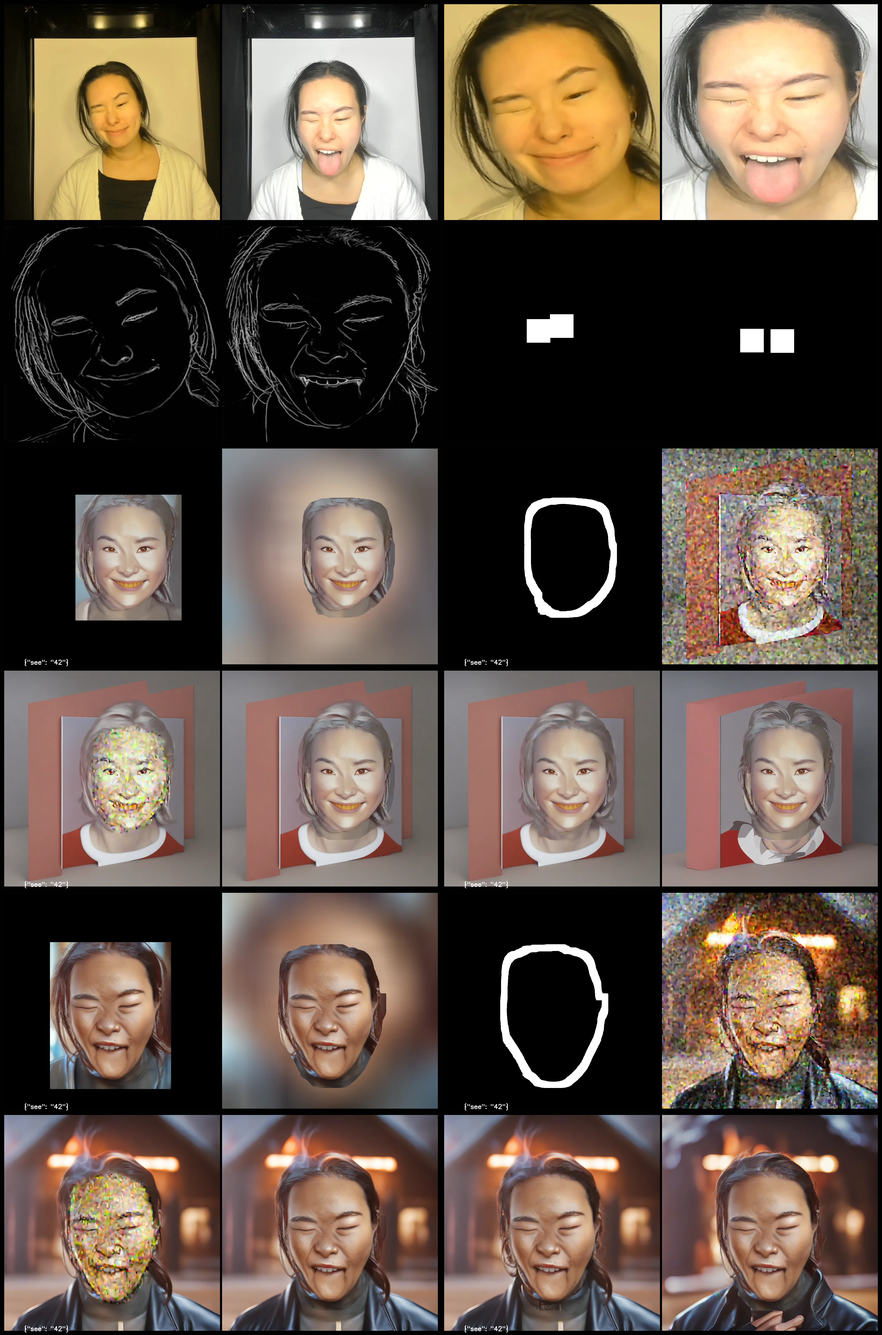
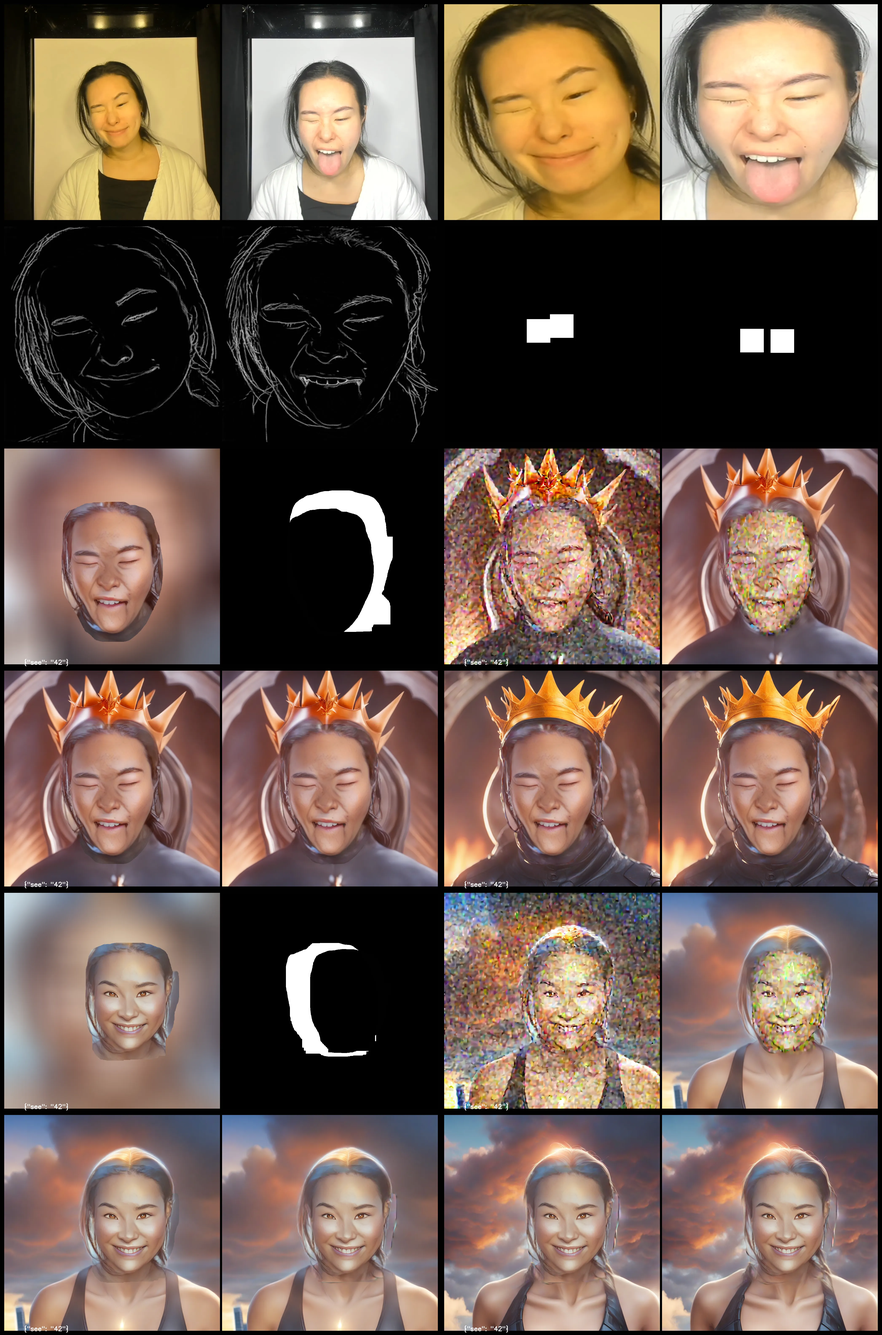
tweaks.

diff --git a/one_shot/dreambooth/model.py b/one_shot/dreambooth/model.py
@@ -229,7 +229,7 @@ class Model:
         frames: list[Image.Image] = []
         dims = (self.params.model.resolution, self.params.model.resolution)
         for idx, face in enumerate(request.generation.faces):
-            padding = self.params.mask_padding * random.triangular(2.1, 2.5)
+            padding = self.params.mask_padding * random.triangular(2.1, 2.3)
 
             bounds = Bounds.from_face(dims, face)
             slice = bounds.slice(padding)
@@ -407,40 +407,78 @@ class Model:
                     (~np.asarray(masks[idx]) - ~np.asarray(og_masks[idx]))
                 ),
                 generator=generator,
-                strength=0.50,
+                strength=0.25,
                 guidance_scale=self.params.guidance_scale,
                 num_inference_steps=self.params.inpainting_steps,
+                output_type="latent",
                 **prompts.kwargs_for_refiner(idx),
-            ).images[0]
+            ).images
             for idx, final in enumerate(final)
         ]
 
         final_refined2 = [
             self.models.bg_refiner(
                 image=final,
-                mask_image=og_masks[idx],
+                mask_image=masks[idx],
                 generator=generator,
                 strength=0.75,
                 guidance_scale=self.params.guidance_scale,
                 num_inference_steps=self.params.inpainting_steps,
+                output_type="latent",
                 **prompts.kwargs_for_refiner(idx),
-            ).images[0]
-            for idx, final in enumerate(final)
+            ).images
+            for idx, final in enumerate(final_refined)
         ]
 
-        # return final_refined2
+        final_refined3 = [
+            self.models.bg_refiner(
+                image=final,
+                mask_image=to_pil_image(
+                    (~np.asarray(masks[idx]) - ~np.asarray(og_masks[idx]))
+                ),
+                generator=generator,
+                strength=0.25,
+                guidance_scale=self.params.guidance_scale,
+                num_inference_steps=self.params.inpainting_steps,
+                **prompts.kwargs_for_refiner(idx),
+            ).images[0]
+            for idx, final in enumerate(final_refined2)
+        ]
+
+        # return final_refined3
+
+        final_refined_images = [
+            self.models.inpainter.image_processor.postprocess(
+                self.models.inpainter.vae.decode(
+                    latent / self.models.inpainter.vae.config.scaling_factor,
+                    return_dict=False,
+                )[0]
+            )[0]
+            for latent in final_refined
+        ]
+
+        final_refined2_images = [
+            self.models.inpainter.image_processor.postprocess(
+                self.models.inpainter.vae.decode(
+                    latent / self.models.inpainter.vae.config.scaling_factor,
+                    return_dict=False,
+                )[0]
+            )[0]
+            for latent in final_refined2
+        ]
 
         return [
-            frames[0],
+            # frames[0],
             images[0],
             # masks[0].convert("RGB"),
             # og_masks[0].convert("RGB"),
-            to_pil_image((~np.asarray(masks[0]) - ~np.asarray(og_masks[0]))).convert(
+            to_pil_image((~np.asarray(masks[idx]) - ~np.asarray(og_masks[0]))).convert(
                 "RGB"
             ),
             latent_images[0],
             refined[0],
             final[0],
-            final_refined[0],
-            final_refined2[0],
+            final_refined_images[0],
+            final_refined2_images[0],
+            final_refined3[0],
         ]

diff --git a/one_shot/params.py b/one_shot/params.py
@@ -64,7 +64,7 @@ class Params(BaseModel):
 
     negative_prompt = "box+, (picture frame)++, boxy, rectangle+, (extra fingers)++, ugly+, blurry+, fuzzy+, monotone, dreary, extra digit, fewer digits, eyes closed, extra eyes, bad smile, cropped, worst quality, low quality, glitch, deformed, mutated, disfigured, text"
     refine_negative_prompt = "face+++, eyes+++, brow, (double face), (extra eyes), (multiple faces)+, (extra digits)+, extra limbs, deformed"
-    prompt_template = "4k photo, realistic, cinematic effect, hyperrealistic+, sharp, (highly detailed)+, nice smile, (airbrushed)0.2, (beautiful)0.2, (white teeth)0.2"
+    prompt_template = "4k photo, realistic, cinematic effect, hyperrealistic+, sharp, (highly detailed)+, nice smile, (airbrushed)0.2, (beautiful)0.2, (white teeth)0.8"
     prompt_prefix = "{prompt}, {ethnicity} {gender}"
     refine_prompt_prefix = "{prompt}"
     inpaint_prompt_template = "{color} eyes, perfecteyes++, (detailed pupils)+, subtle eyes, natural eyes, realistic eyes, ({ethnicity} {gender})0.1, ({prompt})0.8"
@@ -73,10 +73,10 @@ class Params(BaseModel):
         # "mysterious, floating in the universe, cosmos and nebula reflected in clothing, cyberpunk vibes",
         # "90s style, leather jacket, smug, vintage, smoking cigar",
         # "classy, pinstripe suit, pop art style, andy warhol",
-        "zombie, decaying skin and clothing, rotting skin, inside an abandoned building",
-        "8-bit video game, pixelated, minecraft, lego, blocky, elementary colors"
-        # "Marvel superhero, superhero costume, mask, simple colors, flying in the air, high contrast",
-        # "a monarch wearing a crown, game of thrones, on the iron throne, magestic, regal, powerful, bold",
+        # "zombie, decaying skin, torn clothing, inside an abandoned building",
+        # "(character from mario)+, super mario, pixelated, (elementary colors)-"
+        "Marvel superhero, sky in the background, comic book style",
+        "a monarch wearing a crown, game of thrones, on the iron throne, magestic, regal, powerful, bold",
         # "character from tron, neon, techno, futuristic, dark background, black clothing, high contrast",
         # "creative yearbook photo, mean girls, high school, teenage angst",
     ] * 2
